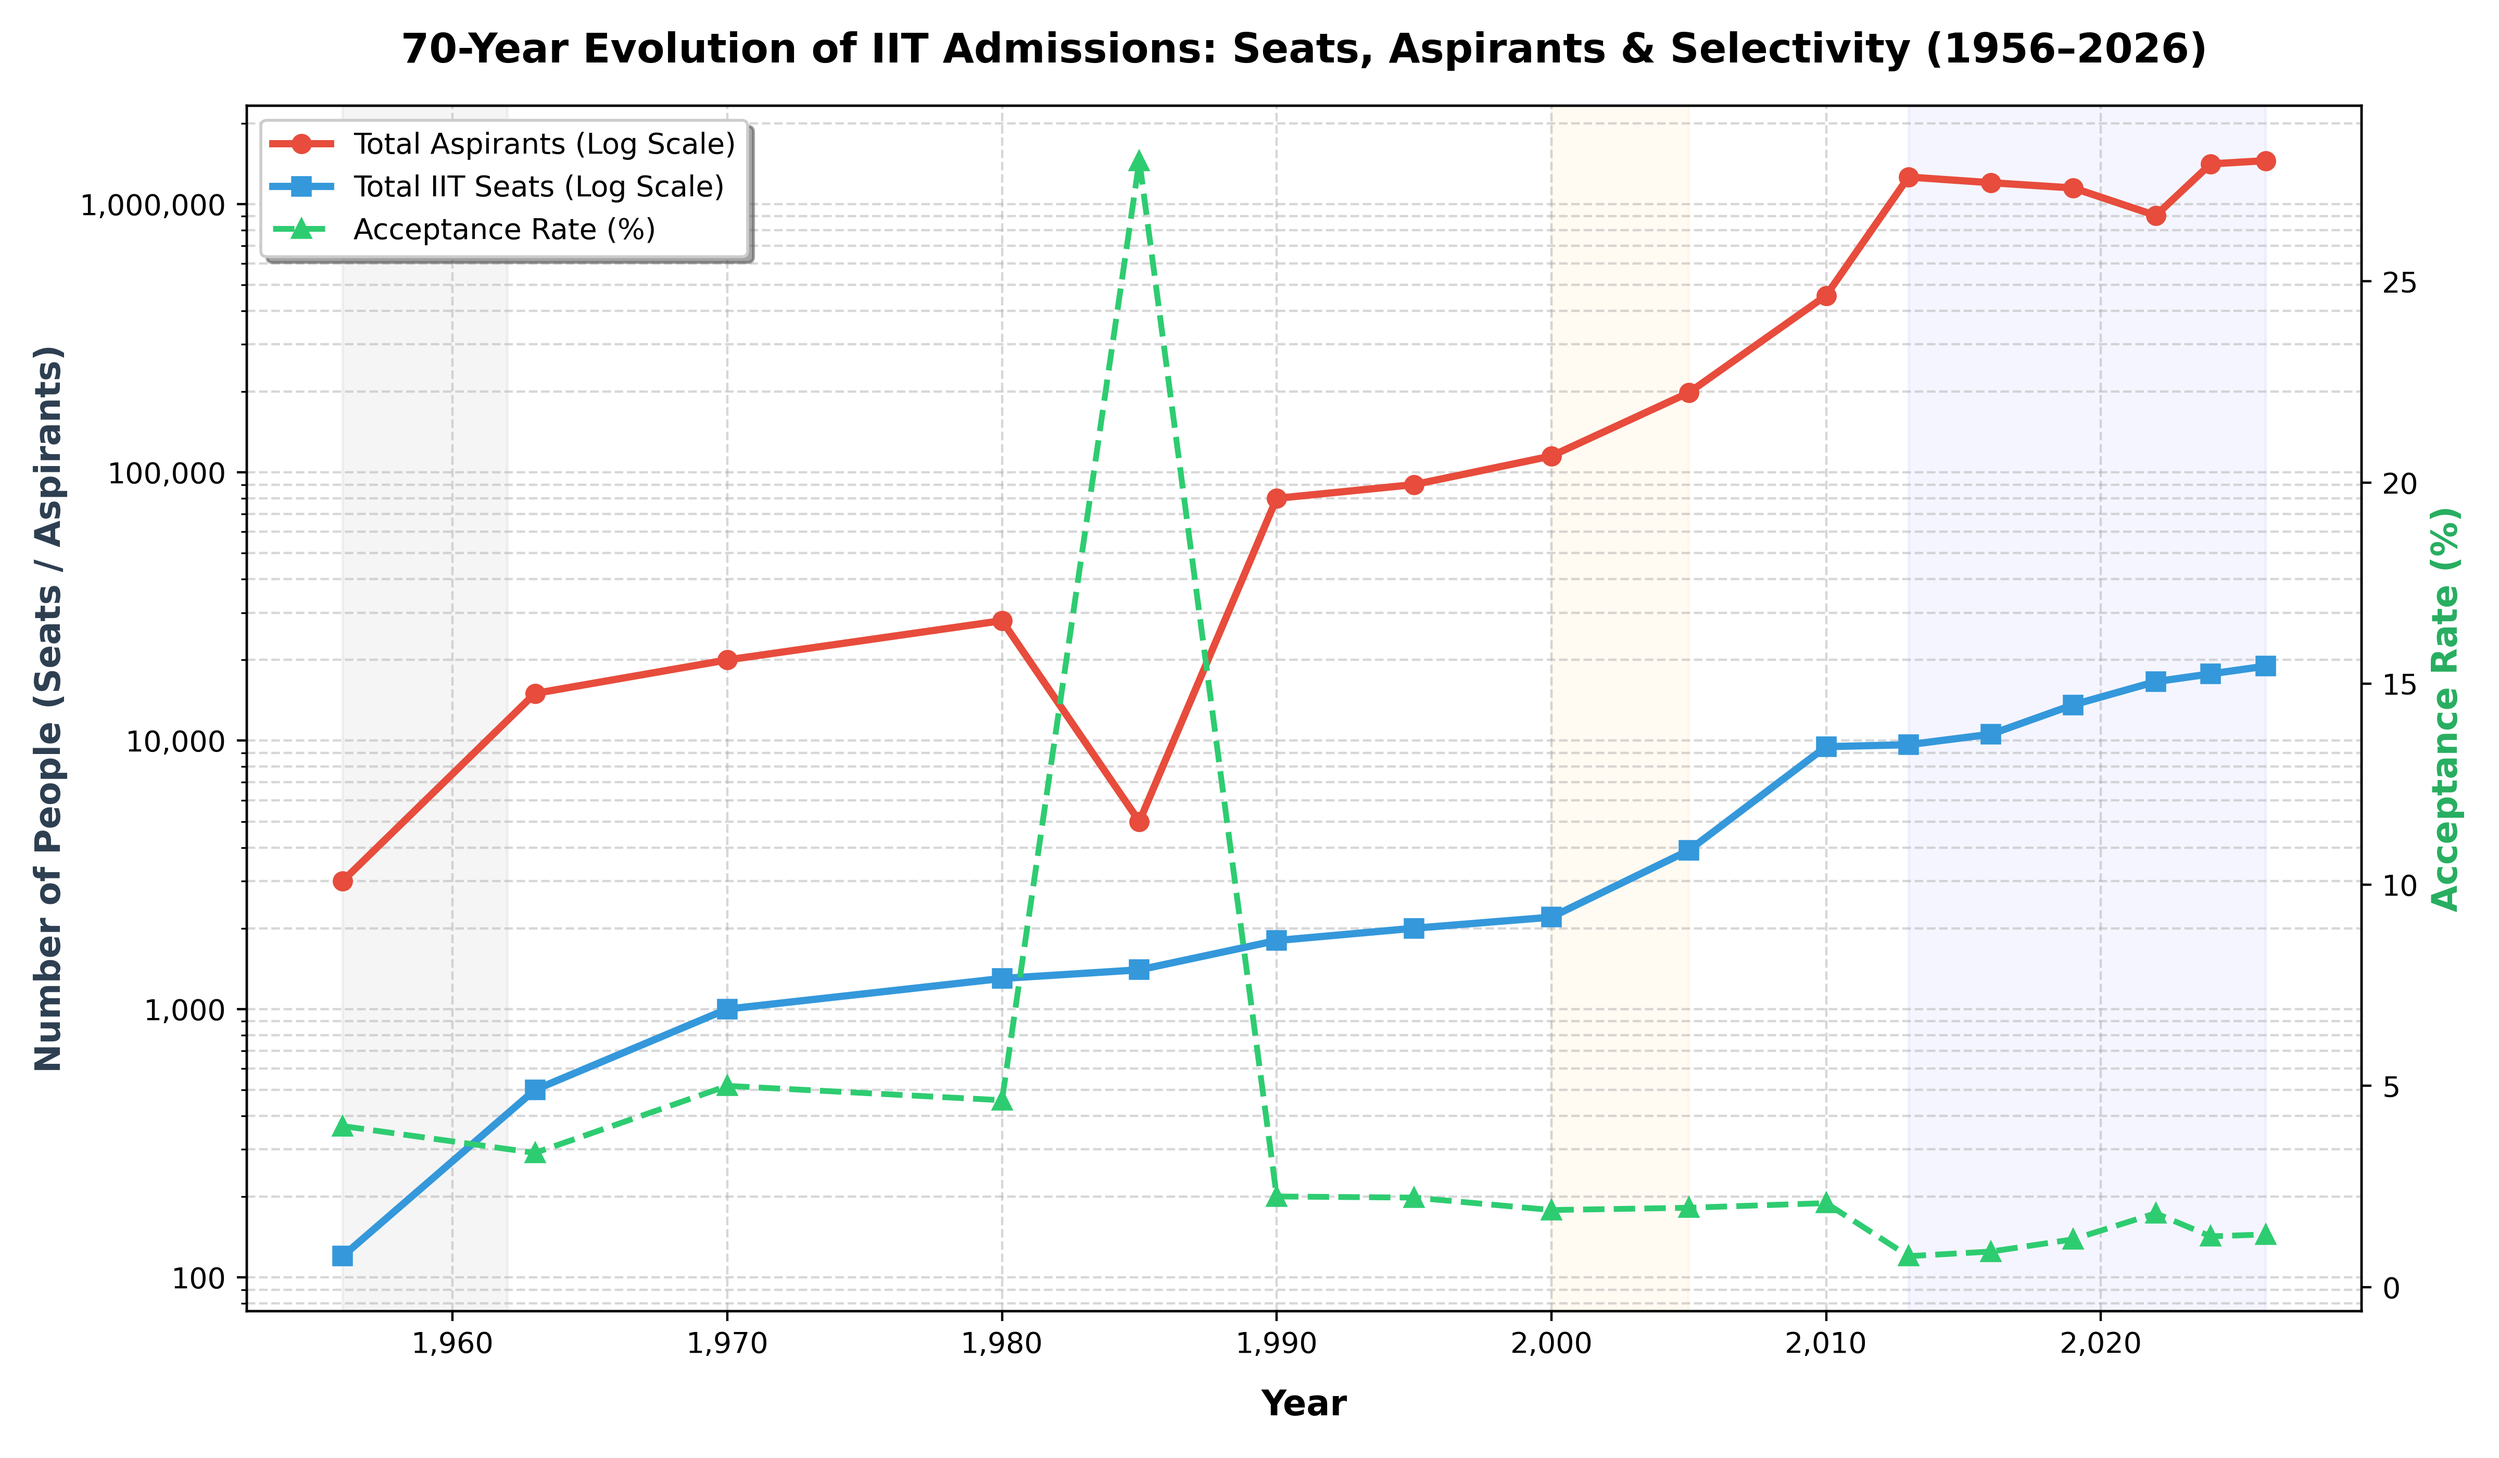
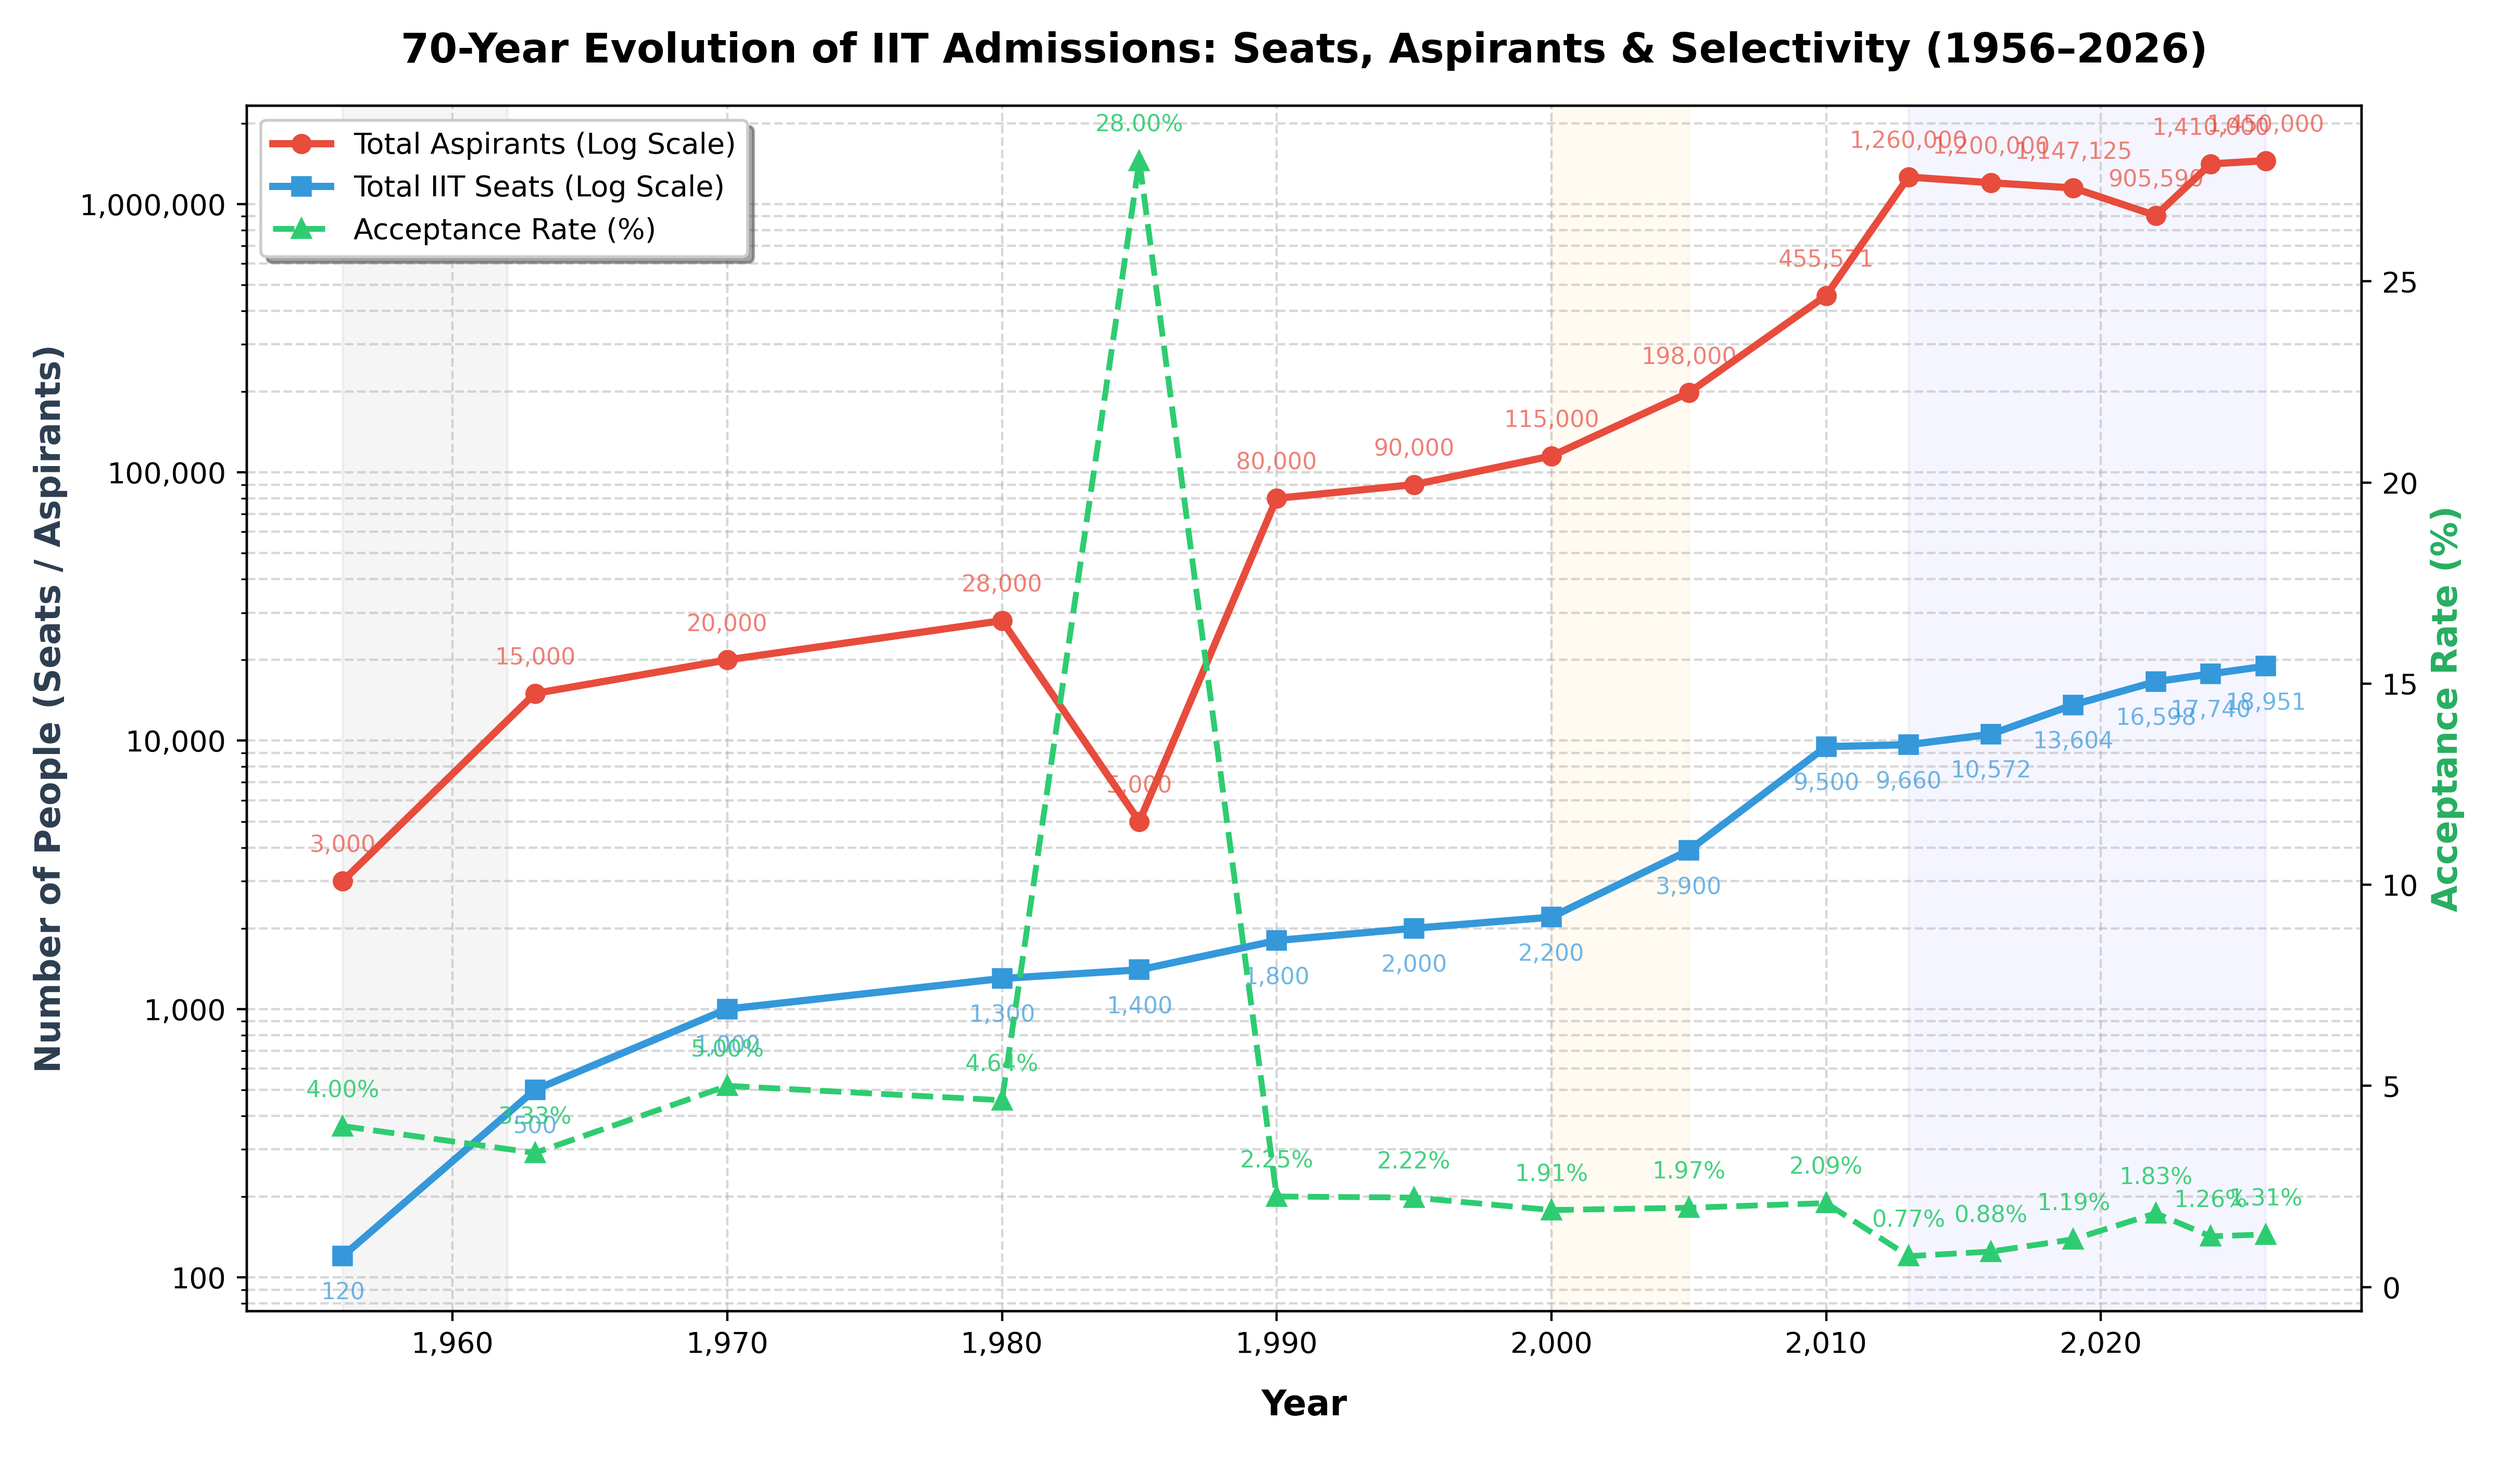
annotated

diff --git a/JEE_Aspirants_vs_Acceptance.py b/JEE_Aspirants_vs_Acceptance.py
@@ -36,6 +36,18 @@ line2 = ax1.plot(years, seats, color='#3498db', marker='s', linewidth=2.5, label
 # 4. Plot Acceptance Rate (Right Y-Axis)
 line3 = ax2.plot(years, acceptance_rate, color='#2ecc71', linestyle='--', marker='^', linewidth=2, label='Acceptance Rate (%)')
 
+# Annotate Aspirants
+for i, txt in enumerate(aspirants):
+    ax1.annotate(f'{txt:,}', (years[i], aspirants[i]), textcoords="offset points", xytext=(0,10), ha='center', fontsize=8, color='#e74c3c', alpha=0.7)
+
+# Annotate Seats
+for i, txt in enumerate(seats):
+    ax1.annotate(f'{txt:,}', (years[i], seats[i]), textcoords="offset points", xytext=(0,-15), ha='center', fontsize=8, color='#3498db', alpha=0.7)
+
+# Annotate Acceptance Rate
+for i, txt in enumerate(acceptance_rate):
+    ax2.annotate(f'{txt:.2f}%', (years[i], acceptance_rate[i]), textcoords="offset points", xytext=(0,10), ha='center', fontsize=8, color='#2ecc71', alpha=0.9)
+
 # 5. Labels and Grid Formatting
 ax1.set_xlabel('Year', fontsize=12, fontweight='bold', labelpad=10)
 ax1.set_ylabel('Number of People (Seats / Aspirants)', color='#2c3e50', fontsize=12, fontweight='bold')
